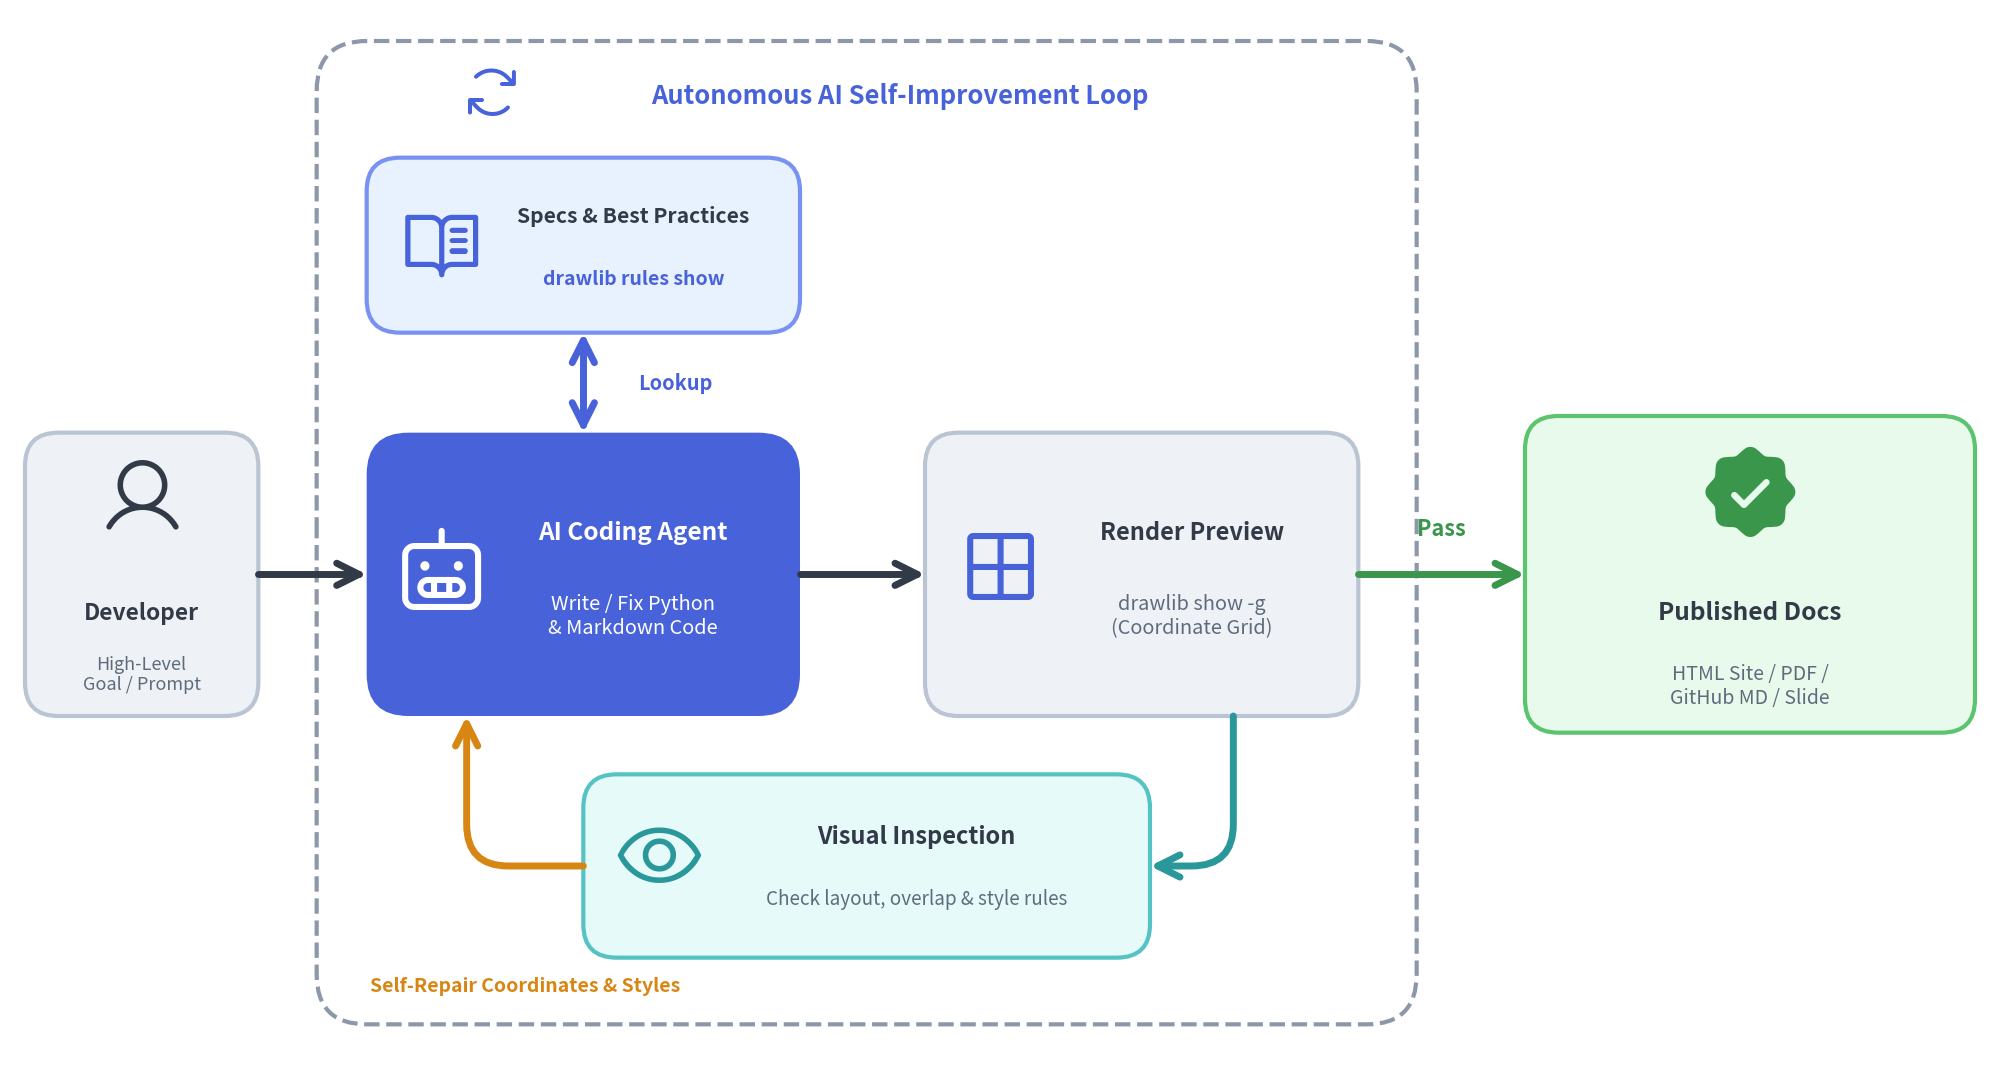
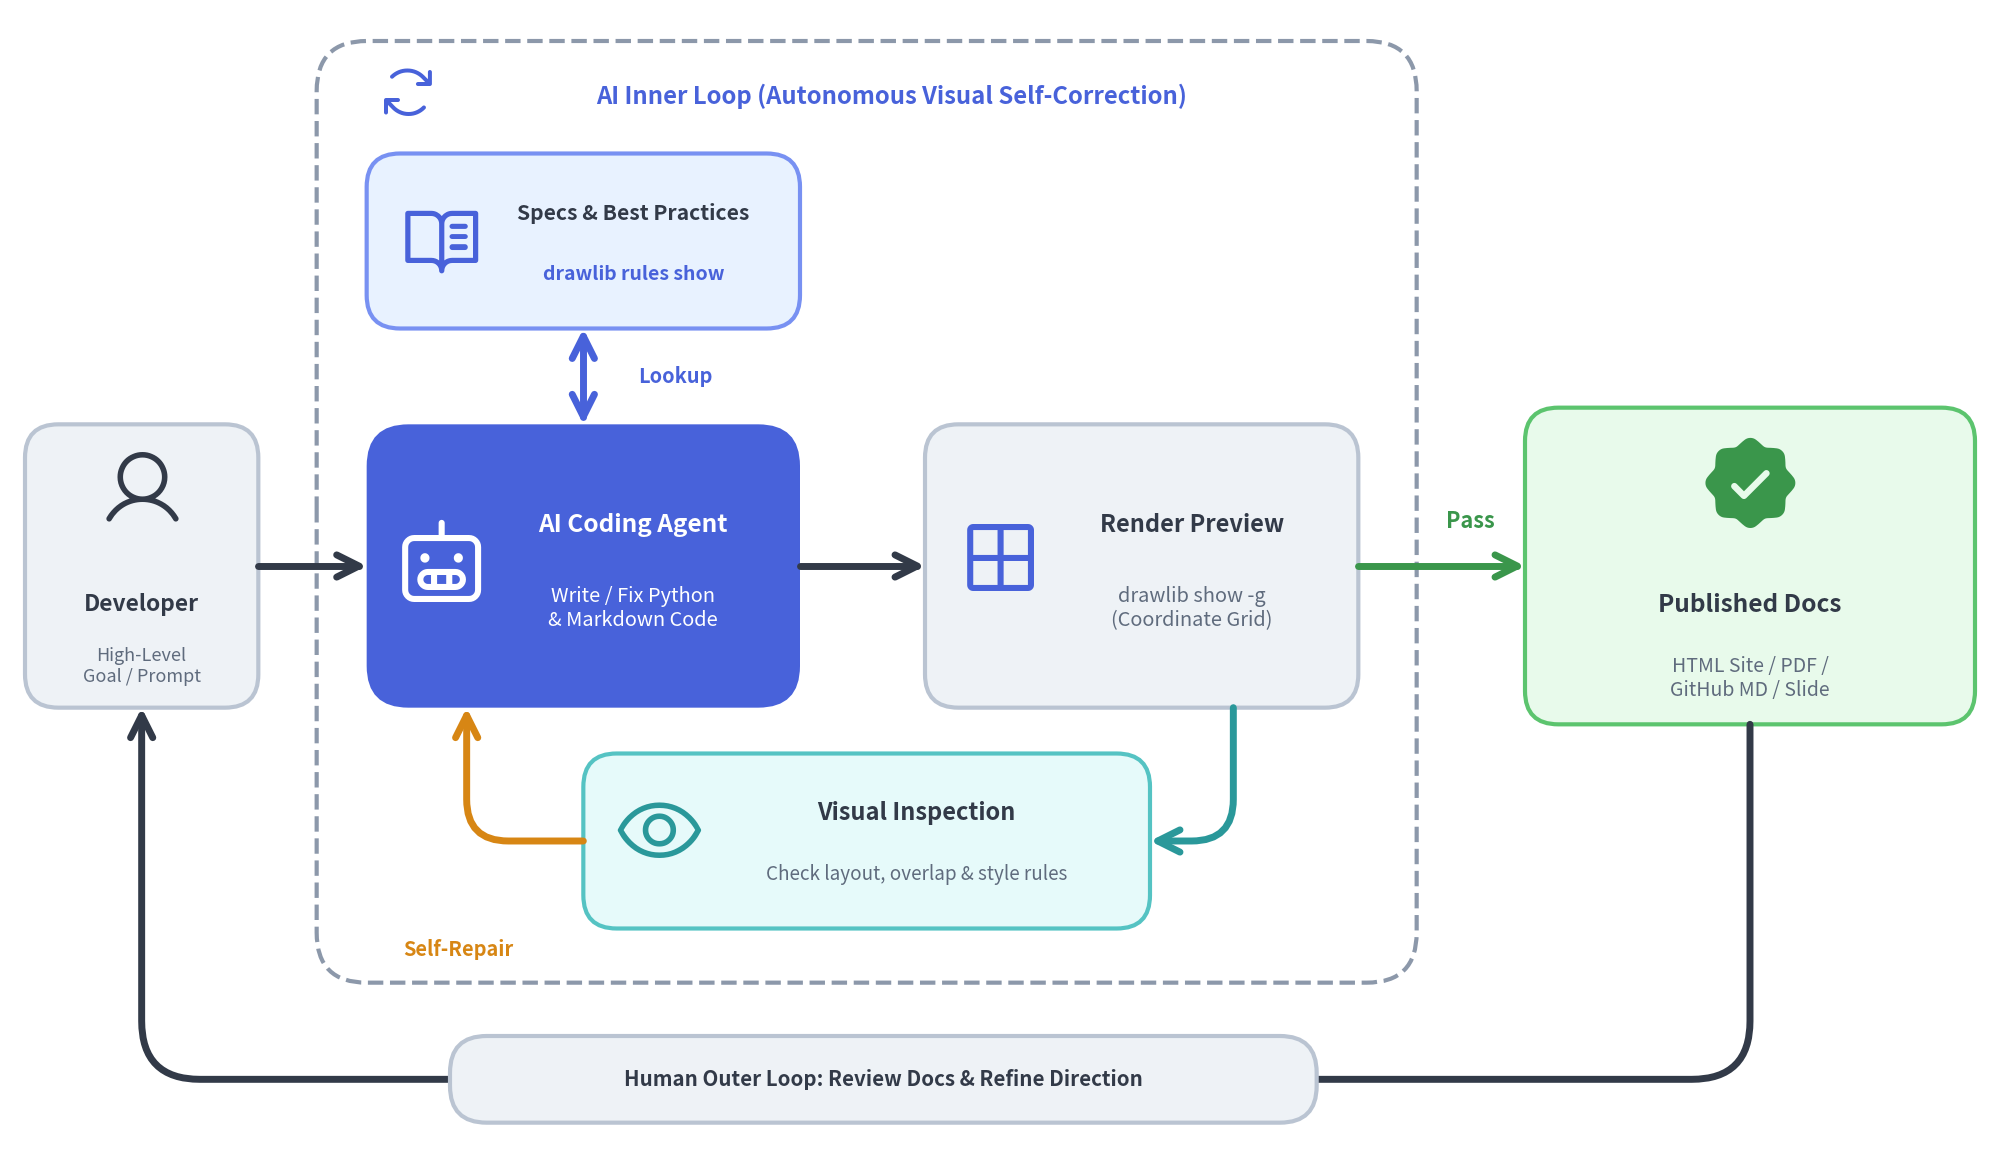
docs: refine AI agent loop documentation by distinguishing between inner autonomous correction and outer human-in-the-loop workflows

diff --git a/readme_src/06_ai_agent_loop.py b/readme_src/06_ai_agent_loop.py
@@ -7,7 +7,7 @@
 # express or implied, including but not limited to the warranties of
 # merchantability, fitness for a particular purpose and noninfringement.
 
-"""Autonomous AI Coding Agent visual self-improvement loop illustration."""
+"""AI Inner Loop and Human Outer Loop visual self-improvement workflow."""
 
 from drawlib.canvas import save, setup
 from drawlib.icons import phosphor
@@ -16,77 +16,91 @@ from drawlib.shapes import rectangle
 from drawlib.styles import Colors, Styles
 from drawlib.text import text
 
-setup(width=120, height=64, dpi=200, color=Colors.Canvas)
+setup(width=120, height=70, dpi=200, color=Colors.Canvas)
 
-# Outer Loop Container (Autonomous AI Zone: x=19..85, y=2.5..61.5)
-rectangle((52, 32), width=66, height=59, r=3, style=Styles.MutedDashed)
-phosphor.arrows_clockwise((29.5, 58.2), width=3.8, style=Styles.Primary)
+# AI Inner Loop Container (Autonomous Zone: x=19..85, y=11..67.5)
+rectangle((52, 39.25), width=66, height=56.5, r=3, style=Styles.MutedDashed)
+phosphor.arrows_clockwise((24.5, 64.2), width=3.8, style=Styles.Primary)
 text(
-    (54, 58.2),
-    "Autonomous AI Self-Improvement Loop",
-    style=Styles.PrimaryBold.patch(text_size=9.2),
+    (53.5, 64.2),
+    "AI Inner Loop (Autonomous Visual Self-Correction)",
+    style=Styles.PrimaryBold.patch(text_size=8.6),
 )
 
-# 1. Left: Human Developer (x=1.5..15.5, y=21..38)
-rectangle((8.5, 29.5), width=14, height=17, r=2, style=Styles.Neutral)
-phosphor.user((8.5, 34), width=5.2, style=Styles.Dark)
-text((8.5, 27.2), "Developer", style=Styles.DarkBold.patch(text_size=8.2))
-text((8.5, 23.5), "High-Level\nGoal / Prompt", style=Styles.Muted.patch(text_size=6.5))
+# 1. Left: Human Developer (x=1.5..15.5, y=27.5..44.5)
+rectangle((8.5, 36), width=14, height=17, r=2, style=Styles.Neutral)
+phosphor.user((8.5, 40.5), width=5.2, style=Styles.Dark)
+text((8.5, 33.7), "Developer", style=Styles.DarkBold.patch(text_size=8.2))
+text((8.5, 30.0), "High-Level\nGoal / Prompt", style=Styles.Muted.patch(text_size=6.5))
 
-line((15.5, 29.5), (22, 29.5), arrow_head="->", style=Styles.DarkBold)
+line((15.5, 36), (22, 36), arrow_head="->", style=Styles.DarkBold)
 
-# 2. Center-Left: AI Coding Agent (Hero Focal Point: x=22..48, y=21..38)
-rectangle((35, 29.5), width=26, height=17, r=2.5, style=Styles.PrimaryFlat)
-phosphor.robot((26.5, 29.5), width=5.6, style=Styles.White)
-text((38, 32.0), "AI Coding Agent", style=Styles.WhiteBold.patch(text_size=8.8))
-text((38, 27.0), "Write / Fix Python\n& Markdown Code", style=Styles.White.patch(text_size=7.2))
+# 2. Center-Left: AI Coding Agent (Hero Focal Point: x=22..48, y=27.5..44.5)
+rectangle((35, 36), width=26, height=17, r=2.5, style=Styles.PrimaryFlat)
+phosphor.robot((26.5, 36), width=5.6, style=Styles.White)
+text((38, 38.5), "AI Coding Agent", style=Styles.WhiteBold.patch(text_size=8.8))
+text((38, 33.5), "Write / Fix Python\n& Markdown Code", style=Styles.White.patch(text_size=7.2))
 
-# 3. Above Agent: On-Demand Rules, Specs & Best Practices (x=22..48, y=44..54.5)
-rectangle((35, 49.25), width=26, height=10.5, r=2, style=Styles.PrimaryNeutral)
-phosphor.book_open_text((26.5, 49.25), width=4.8, style=Styles.Primary)
-text((38, 51.0), "Specs & Best Practices", style=Styles.DarkBold.patch(text_size=7.6))
-text((38, 47.2), "drawlib rules show", style=Styles.PrimaryBold.patch(text_size=7.0))
+# 3. Above Agent: On-Demand Rules, Specs & Best Practices (x=22..48, y=50.25..60.75)
+rectangle((35, 55.5), width=26, height=10.5, r=2, style=Styles.PrimaryNeutral)
+phosphor.book_open_text((26.5, 55.5), width=4.8, style=Styles.Primary)
+text((38, 57.2), "Specs & Best Practices", style=Styles.DarkBold.patch(text_size=7.6))
+text((38, 53.5), "drawlib rules show", style=Styles.PrimaryBold.patch(text_size=7.0))
 
 # Agent autonomously queries Specs & Best Practices (<->)
-line((35, 38), (35, 44), arrow_head="<->", style=Styles.PrimaryBold)
-text((40.5, 41), "Lookup", style=Styles.PrimaryBold.patch(text_size=7.2))
+line((35, 44.5), (35, 50.25), arrow_head="<->", style=Styles.PrimaryBold)
+text((40.5, 47.4), "Lookup", style=Styles.PrimaryBold.patch(text_size=7.2))
 
-# 4. Center-Right: Headless Render Preview with Coordinate Grid (x=55.5..81.5, y=21..38)
-line((48, 29.5), (55.5, 29.5), arrow_head="->", style=Styles.DarkBold)
+# 4. Center-Right: Headless Render Preview with Coordinate Grid (x=55.5..81.5, y=27.5..44.5)
+line((48, 36), (55.5, 36), arrow_head="->", style=Styles.DarkBold)
 
-rectangle((68.5, 29.5), width=26, height=17, r=2, style=Styles.Neutral)
-phosphor.grid_four((60, 29.5), width=5.6, style=Styles.Primary)
-text((71.5, 32.0), "Render Preview", style=Styles.DarkBold.patch(text_size=8.5))
-text((71.5, 27.0), "drawlib show -g\n(Coordinate Grid)", style=Styles.Muted.patch(text_size=7.2))
+rectangle((68.5, 36), width=26, height=17, r=2, style=Styles.Neutral)
+phosphor.grid_four((60, 36), width=5.6, style=Styles.Primary)
+text((71.5, 38.5), "Render Preview", style=Styles.DarkBold.patch(text_size=8.5))
+text((71.5, 33.5), "drawlib show -g\n(Coordinate Grid)", style=Styles.Muted.patch(text_size=7.2))
 
-# 5. Bottom: Multimodal Visual Inspection (x=35..69, y=6.5..17.5)
-rectangle((52, 12), width=34, height=11, r=2, style=Styles.SecondaryNeutral)
-phosphor.eye((39.5, 12), width=5.2, style=Styles.Secondary)
-text((55, 13.8), "Visual Inspection", style=Styles.DarkBold.patch(text_size=8.5))
-text((55, 10.0), "Check layout, overlap & style rules", style=Styles.Muted.patch(text_size=6.8))
+# 5. Bottom of Inner Loop: Multimodal Visual Inspection (x=35..69, y=14.25..24.75)
+rectangle((52, 19.5), width=34, height=10.5, r=2, style=Styles.SecondaryNeutral)
+phosphor.eye((39.5, 19.5), width=5.2, style=Styles.Secondary)
+text((55, 21.2), "Visual Inspection", style=Styles.DarkBold.patch(text_size=8.5))
+text((55, 17.5), "Check layout, overlap & style rules", style=Styles.Muted.patch(text_size=6.8))
 
-# Curved feedback path: Render (bottom) -> Visual Inspection (right) -> AI Agent (bottom)
+# Inner Loop feedback path: Render (bottom) -> Visual Inspection (right) -> AI Agent (bottom)
 lines_curved(
-    [(74, 21), (74, 12), (69, 12)],
+    [(74, 27.5), (74, 19.5), (69, 19.5)],
     r=2.5,
     arrow_head="->",
     style=Styles.SecondaryBold,
 )
 lines_curved(
-    [(35, 12), (28, 12), (28, 21)],
+    [(35, 19.5), (28, 19.5), (28, 27.5)],
     r=2.5,
     arrow_head="->",
     style=Styles.WarningBold,
 )
-text((31.5, 4.8), "Self-Repair Coordinates & Styles", style=Styles.WarningBold.patch(text_size=7.0))
+text((27.5, 13.0), "Self-Repair", style=Styles.WarningBold.patch(text_size=7.2))
 
-# 6. Right: Published Docs (x=91.5..118.5, y=20..39)
-line((81.5, 29.5), (91.5, 29.5), arrow_head="->", style=Styles.SuccessBold)
-text((86.5, 32.2), "Pass", style=Styles.SuccessBold.patch(text_size=7.8))
+# 6. Right: Published Docs (x=91.5..118.5, y=26.5..45.5)
+line((81.5, 36), (91.5, 36), arrow_head="->", style=Styles.SuccessBold)
+text((88.2, 38.7), "Pass", style=Styles.SuccessBold.patch(text_size=7.8))
 
-rectangle((105, 29.5), width=27, height=19, r=2, style=Styles.SuccessNeutral)
-phosphor.seal_check((105, 34.5), width=6.0, style=Styles.Success.patch(icon_style="fill"))
-text((105, 27.2), "Published Docs", style=Styles.DarkBold.patch(text_size=8.8))
-text((105, 22.8), "HTML Site / PDF /\nGitHub MD / Slide", style=Styles.Muted.patch(text_size=7.0))
+rectangle((105, 36), width=27, height=19, r=2, style=Styles.SuccessNeutral)
+phosphor.seal_check((105, 41), width=6.0, style=Styles.Success.patch(icon_style="fill"))
+text((105, 33.7), "Published Docs", style=Styles.DarkBold.patch(text_size=8.8))
+text((105, 29.3), "HTML Site / PDF /\nGitHub MD / Slide", style=Styles.Muted.patch(text_size=7.0))
+
+# 7. Human Outer Loop: Published Docs (bottom) -> Developer (bottom)
+lines_curved(
+    [(105, 26.5), (105, 5.2), (8.5, 5.2), (8.5, 27.5)],
+    r=3.5,
+    arrow_head="->",
+    style=Styles.DarkBold,
+)
+rectangle((53, 5.2), width=52, height=5.2, r=2.2, style=Styles.Neutral)
+text(
+    (53, 5.2),
+    "Human Outer Loop: Review Docs & Refine Direction",
+    style=Styles.DarkBold.patch(text_size=7.4),
+)
 
 save()

diff --git a/README.md b/README.md
@@ -69,15 +69,17 @@ Write Markdown files with embedded ```` ```drawlib ```` code blocks. A single `d
 
 ---
 
-### 5. Autonomous AI Coding Agent Self-Correction Loop
-Drawlib is engineered from the ground up for **AI-driven documentation and diagram synthesis** (Claude Code, Cursor, Gemini, Codex):
+### 5. AI Inner Loop & Human Outer Loop
+Drawlib is engineered from the ground up for **AI-native documentation and diagram engineering** (Claude Code, Cursor, Gemini, Codex), separating high-frequency visual self-correction from high-level human review:
 
-![Autonomous AI Visual Self-Correction Loop](readme_images/06_ai_agent_loop.png)
+![AI Inner Loop and Human Outer Loop](readme_images/06_ai_agent_loop.png)
 
-1. **On-Demand Spec & Best-Practice Lookup (`drawlib rules show`)**: Rather than requiring humans to feed massive static rule prompts, the AI agent **autonomously queries `drawlib rules show <topic>`** whenever it needs detailed module specifications, API signatures, coordinate conventions, or visual design best practices.
-2. **Declarative Code Synthesis**: Guided by the specifications it looked up and your repository's source code, the agent authors or updates Python drawing blocks and Markdown prose in Git.
-3. **Headless Coordinate Grid Preview (`drawlib show -g`)**: The agent renders any script or embedded Markdown diagram with a precision coordinate grid overlay.
-4. **Multimodal Visual Inspection & Self-Repair**: The agent inspects the rendered PNG multimodally, checks for text clipping, overlapping labels, or style imbalances, and autonomously repairs coordinates and styles until the layout passes inspection.
+- **AI Inner Loop (Autonomous Visual Self-Correction)**:
+  1. **On-Demand Spec Lookup (`drawlib rules show`)**: The AI agent **autonomously queries `drawlib rules show <topic>`** whenever it needs detailed API specifications, coordinate rules, or visual design best practices.
+  2. **Code Synthesis & Grid Preview (`drawlib show -g`)**: The agent writes Python drawing blocks and Markdown prose, then renders a headless preview with a coordinate grid overlay.
+  3. **Multimodal Inspection & Self-Repair**: The agent visually inspects the rendered PNG for text clipping, overlapping labels, or style imbalances, repairing coordinates and styles autonomously until the diagram passes inspection.
+- **Human Outer Loop (Intent & Review)**:
+  - The developer stays focused on high-level architecture and intent—providing initial goals, reviewing the compiled **Published Docs** (HTML / PDF / GitHub MD / Slide), and iterating on direction without ever nudging pixels in a GUI tool.
 
 ---
 
